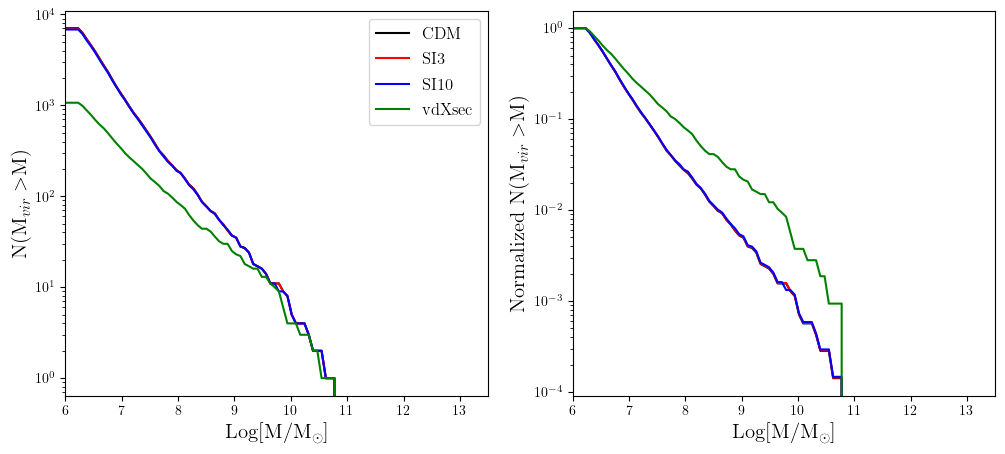
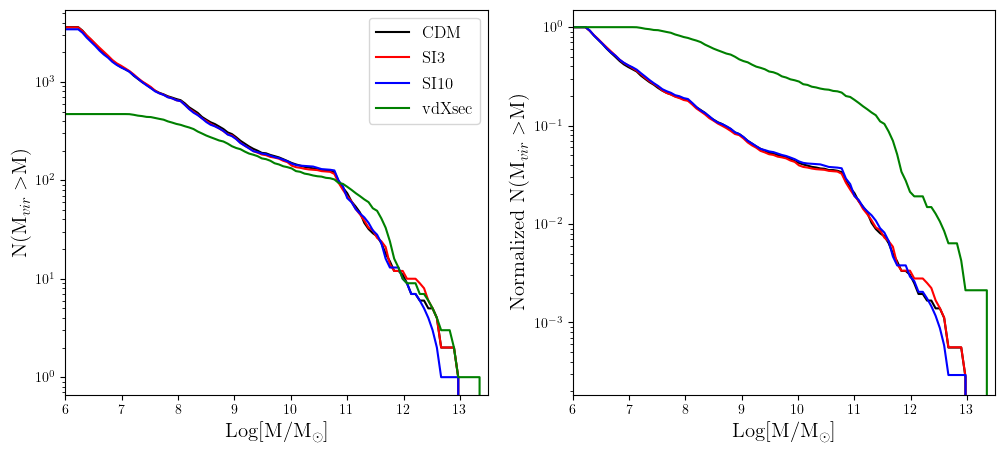
Added config file to update paths per machine and allow for different redshifts

diff --git a/Code/Config.py b/Code/Config.py
@@ -1,0 +1,159 @@
+import os,pickle,sys
+
+if os.uname()[1].split('.')[1]=='frontera':
+    config = {
+    'z0':{
+        'simpaths':{
+            'CDM':'/scratch1/08902/tg882017/storm.cosmo25cmb.4096/storm.cosmo25cmb.4096.004096',
+            'SI3':'/scratch1/08902/tg882017/storm.cosmo25cmbSI3.4096/storm.cosmo25cmbSI3.4096.004096',
+            'SI10':'/scratch1/08902/tg882017/storm.cosmo25cmbSI10.4096/storm.cosmo25cmbSI10.4096.004096',
+            'vdXsec':'/scratch1/08902/tg882017/storm.cosmo25cmbvdXsec.4096/storm.cosmo25cmbvdXsec.65536.065536'
+        },
+        'AHFs':{
+            'CDM':'/scratch1/08902/tg882017/storm.cosmo25cmb.4096/storm.cosmo25cmb.4096.004096.z0.000.AHF_halos',
+            'SI3':'/scratch1/08902/tg882017/storm.cosmo25cmbSI3.4096/storm.cosmo25cmbSI3.4096.004096.z0.000.AHF_halos',
+            'SI10':'/scratch1/08902/tg882017/storm.cosmo25cmbSI10.4096/storm.cosmo25cmbSI10.4096.004096.z0.000.AHF_halos',
+            'vdXsec':'/scratch1/08902/tg882017/storm.cosmo25cmbvdXsec.4096/storm.cosmo25cmbvdXsec.65536.065536.z0.000.AHF_halos'
+        }
+    },
+    'z1':{
+        'simpaths':{
+            'CDM':'/scratch1/08902/tg882017/storm.cosmo25cmb.4096/storm.cosmo25cmb.4096.001813',
+            'SI3':'/scratch1/08902/tg882017/storm.cosmo25cmbSI3.4096/storm.cosmo25cmbSI3.4096.001813',
+            'SI10':'/scratch1/08902/tg882017/storm.cosmo25cmbSI10.4096/storm.cosmo25cmbSI10.4096.001813',
+            'vdXsec':'/scratch1/08902/tg882017/storm.cosmo25cmbvdXsec.4096/storm.cosmo25cmbvdXsec.65536.028992'
+        },
+        'AHFs':{
+            'CDM':'/scratch1/08902/tg882017/storm.cosmo25cmb.4096/storm.cosmo25cmb.4096.001813.z0.999.AHF_halos',
+            'SI3':'/scratch1/08902/tg882017/storm.cosmo25cmbSI3.4096/storm.cosmo25cmbSI3.4096.001813.z0.999.AHF_halos',
+            'SI10':'/scratch1/08902/tg882017/storm.cosmo25cmbSI10.4096/storm.cosmo25cmbSI10.4096.001813.z0.999.AHF_halos',
+            'vdXsec':'/scratch1/08902/tg882017/storm.cosmo25cmbvdXsec.4096/storm.cosmo25cmbvdXsec.65536.028992.z1.000.AHF_halos'
+        }
+    },
+    'z2':{
+        'simpaths':{
+            'CDM':'/scratch1/08902/tg882017/storm.cosmo25cmb.4096/storm.cosmo25cmb.4096.001025',
+            'SI3':'/scratch1/08902/tg882017/storm.cosmo25cmbSI3.4096/storm.cosmo25cmbSI3.4096.001025',
+            'SI10':'/scratch1/08902/tg882017/storm.cosmo25cmbSI10.4096/storm.cosmo25cmbSI10.4096.001025',
+            'vdXsec':''
+        },
+        'AHFs':{
+            'CDM':'/scratch1/08902/tg882017/storm.cosmo25cmb.4096/storm.cosmo25cmb.4096.001025.z1.999.AHF_halos',
+            'SI3':'/scratch1/08902/tg882017/storm.cosmo25cmbSI3.4096/storm.cosmo25cmbSI3.4096.001025.z1.99.AHF_halos',
+            'SI10':'/scratch1/08902/tg882017/storm.cosmo25cmbSI10.4096/storm.cosmo25cmbSI10.4096.001025.z1.999.AHF_halos',
+            'vdXsec':''
+        }
+    },
+    'z3':{
+        'simpaths':{
+            'CDM':'/scratch1/08902/tg882017/storm.cosmo25cmb.4096/storm.cosmo25cmb.4096.000672',
+            'SI3':'/scratch1/08902/tg882017/storm.cosmo25cmbSI3.4096/storm.cosmo25cmbSI3.4096.000672',
+            'SI10':'/scratch1/08902/tg882017/storm.cosmo25cmbSI10.4096/storm.cosmo25cmbSI10.4096.000672',
+            'vdXsec':''
+        },
+        'AHFs':{
+            'CDM':'/scratch1/08902/tg882017/storm.cosmo25cmb.4096/storm.cosmo25cmb.4096.000672.z2.998.AHF_halos',
+            'SI3':'/scratch1/08902/tg882017/storm.cosmo25cmbSI3.4096/storm.cosmo25cmbSI3.4096.000672.z2.998.AHF_halos',
+            'SI10':'/scratch1/08902/tg882017/storm.cosmo25cmbSI10.4096/storm.cosmo25cmbSI10.4096.000672.z2.998.AHF_halos',
+            'vdXsec':''
+        }
+    },
+    'z4':{
+        'simpaths':{
+            'CDM':'/scratch1/08902/tg882017/storm.cosmo25cmb.4096/storm.cosmo25cmb.4096.000482',
+            'SI3':'/scratch1/08902/tg882017/storm.cosmo25cmbSI3.4096/storm.cosmo25cmbSI3.4096.000482',
+            'SI10':'/scratch1/08902/tg882017/storm.cosmo25cmbSI10.4096/storm.cosmo25cmbSI10.4096.000482',
+            'vdXsec':''
+        },
+        'AHFs':{
+            'CDM':'/scratch1/08902/tg882017/storm.cosmo25cmb.4096/storm.cosmo25cmb.4096.000482.z3.996.AHF_halos',
+            'SI3':'/scratch1/08902/tg882017/storm.cosmo25cmbSI3.4096/storm.cosmo25cmbSI3.4096.000482.z3.996.AHF_halos',
+            'SI10':'/scratch1/08902/tg882017/storm.cosmo25cmbSI10.4096/storm.cosmo25cmbSI10.4096.000482.z3.996.AHF_halos',
+            'vdXsec':''
+        }
+    },
+    'gitdir':'/work2/08902/tg882017/SelfInteractingDarkMatter',
+    'python':'/home1/08902/tg882017/anaconda3/bin/python'
+    }
+elif os.uname()[1].split('.')[0]=='glaurung':
+    config = {
+    'z0':{
+        'simpaths':{
+            'CDM':'/home/vannest/dwarf_volumes/storm.SIDM/storm.cosmo25cmb.4096/storm.cosmo25cmb.4096.004096',
+            'SI3':'/home/vannest/dwarf_volumes/storm.SIDM/storm.cosmo25cmbSI3.4096/storm.cosmo25cmbSI3.4096.004096',
+            'SI10':'/home/vannest/dwarf_volumes/storm.SIDM/storm.cosmo25cmbSI10.4096/storm.cosmo25cmbSI10.4096.004096',
+            'vdXsec':'/home/vannest/dwarf_volumes/storm.SIDM/storm.cosmo25cmbvdXsec.65536/storm.cosmo25cmbvdXsec.65536.065536'
+        },
+        'AHFs':{
+            'CDM':'/home/vannest/dwarf_volumes/storm.SIDM/storm.cosmo25cmb.4096/storm.cosmo25cmb.4096.004096.0000.z0.000.AHF_halos',
+            'SI3':'/home/vannest/dwarf_volumes/storm.SIDM/storm.cosmo25cmbSI3.4096/storm.cosmo25cmbSI3.4096.004096.0000.z0.000.AHF_halos',
+            'SI10':'/home/vannest/dwarf_volumes/storm.SIDM/storm.cosmo25cmbSI10.4096/storm.cosmo25cmbSI10.4096.004096.0000.z0.000.AHF_halos',
+            'vdXsec':'/home/vannest/dwarf_volumes/storm.SIDM/storm.cosmo25cmbvdXsec.65536/storm.cosmo25cmbvdXsec.65536.065536.z0.000.AHF_halos'
+        }
+    },
+    'z1':{
+            'simpaths':{
+            'CDM':'',
+            'SI3':'',
+            'SI10':'',
+            'vdXsec':''
+        },
+        'AHFs':{
+            'CDM':'',
+            'SI3':'',
+            'SI10':'',
+            'vdXsec':''
+        }
+    },
+    'z2':{
+            'simpaths':{
+            'CDM':'',
+            'SI3':'',
+            'SI10':'',
+            'vdXsec':''
+        },
+        'AHFs':{
+            'CDM':'',
+            'SI3':'',
+            'SI10':'',
+            'vdXsec':''
+        }
+    },
+    'z3':{
+            'simpaths':{
+            'CDM':'',
+            'SI3':'',
+            'SI10':'',
+            'vdXsec':''
+        },
+        'AHFs':{
+            'CDM':'',
+            'SI3':'',
+            'SI10':'',
+            'vdXsec':''
+        }
+    },
+    'z4':{
+            'simpaths':{
+            'CDM':'',
+            'SI3':'',
+            'SI10':'',
+            'vdXsec':''
+        },
+        'AHFs':{
+            'CDM':'',
+            'SI3':'',
+            'SI10':'',
+            'vdXsec':''
+        }
+    },
+    'gitdir':'/myhome2/users/vannest/SelfInteractingDarkMatter',
+    'python':'/myhome2/users/vannest/anaconda3/bin/python'
+    }
+else:
+    print('Check config settings')
+    sys.exit(0)
+
+out = open('Config.pickle','wb')
+pickle.dump(config,out)
+out.close()

diff --git a/Code/AHFData.py b/Code/AHFData.py
@@ -1,4 +1,4 @@
-import argparse,sys
+import argparse,os,pickle,sys
 import numpy as np
 def myprint(string,clear=False):
     if clear:
@@ -8,42 +8,35 @@ def myprint(string,clear=False):
 
 parser = argparse.ArgumentParser(description='', usage='')
 parser.add_argument('-c','--cross_section',choices=['CDM','SI3','SI10','vdXsec'],required=True)
-parser.add_argument('-n','--npart',type=int,default=300)
+parser.add_argument('-z','--redshift',choices=['z0','z1','z2','z3','z4'],required=True)
+parser.add_argument('-n','--npart',type=int,default=64)
 args = parser.parse_args()
 
-simpaths = {
-    'CDM':'/home/vannest/dwarf_volumes/storm.SIDM/storm.cosmo25cmb.4096/storm.cosmo25cmb.4096.004096',
-    'SI3':'/home/vannest/dwarf_volumes/storm.SIDM/storm.cosmo25cmbSI3.4096/storm.cosmo25cmbSI3.4096.004096',
-    'SI10':'/home/vannest/dwarf_volumes/storm.SIDM/storm.cosmo25cmbSI10.4096/storm.cosmo25cmbSI10.4096.004096',
-    'vdXsec':'/home/vannest/dwarf_volumes/storm.SIDM/storm.cosmo25cmbvdXsec.65536/storm.cosmo25cmbvdXsec.65536.065536'
-}
-AHFs = {
-    'CDM':'/home/vannest/dwarf_volumes/storm.SIDM/storm.cosmo25cmb.4096/storm.cosmo25cmb.4096.004096.0000.z0.000.AHF_halos',
-    'SI3':'/home/vannest/dwarf_volumes/storm.SIDM/storm.cosmo25cmbSI3.4096/storm.cosmo25cmbSI3.4096.004096.0000.z0.000.AHF_halos',
-    'SI10':'/home/vannest/dwarf_volumes/storm.SIDM/storm.cosmo25cmbSI10.4096/storm.cosmo25cmbSI10.4096.004096.0000.z0.000.AHF_halos',
-    'vdXsec':'/home/vannest/dwarf_volumes/storm.SIDM/storm.cosmo25cmbvdXsec.65536/storm.cosmo25cmbvdXsec.65536.065536.z0.000.AHF_halos'
-}
+#Update paths depending on machine
+os.system(f'python Config.py')
+config = pickle.load(open('Config.pickle','rb'))
+AHFs = config[{args.redshift}]['AHFs']
 
 print('Finding Halos')
 Nhalo = 0
 with open(AHFs[args.cross_section]) as f:
     AHF = f.readlines()
     del AHF[0]
-index = 4 if args.cross_section=='vdXsec' else 3
+index = 4 
 for line in AHF:
     if int(line.split('\t')[index])>(args.npart-1): Nhalo+=1
 myprint(f'{Nhalo} Halos Found.',clear=True)
 
 Mvir,Rvir,cont = np.zeros(Nhalo),np.zeros(Nhalo),np.zeros(Nhalo)
-m_index = 3 if args.cross_section=='vdXsec' else 2
-r_index = 11 if args.cross_section=='vdXsec' else 10
-c_index = 37 if args.cross_section=='vdXsec' else 26
+m_index = 3
+r_index = 11
+c_index = 37
 for i in np.arange(Nhalo):
     Mvir[i] = float(AHF[i].split('\t')[m_index])
     Rvir[i] = float(AHF[i].split('\t')[r_index])
     cont[i] = float(AHF[i].split('\t')[c_index])
 
-np.save(f'../DataFiles/Mvir.N{args.npart}.{args.cross_section}.z0.npy',Mvir)
-np.save(f'../DataFiles/Rvir.N{args.npart}.{args.cross_section}.z0.npy',Rvir)
-np.save(f'../DataFiles/ContaminationFraction.N{args.npart}.{args.cross_section}.z0.npy',cont)
+np.save(f'../DataFiles/Mvir.N{args.npart}.{args.cross_section}.{args.redshift}.npy',Mvir)
+np.save(f'../DataFiles/Rvir.N{args.npart}.{args.cross_section}.{args.redshift}.npy',Rvir)
+np.save(f'../DataFiles/ContaminationFraction.N{args.npart}.{args.cross_section}.{args.redshift}.npy',cont)
 print('Done')
